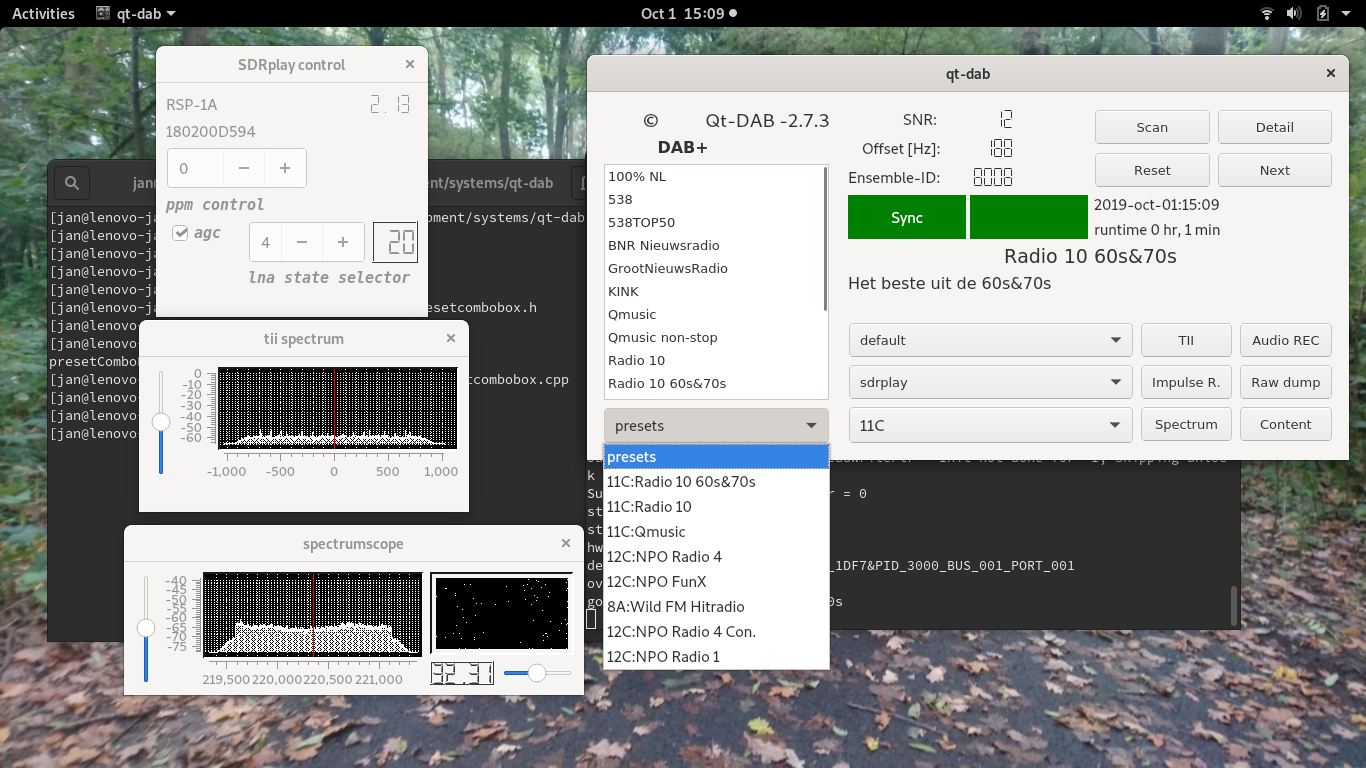
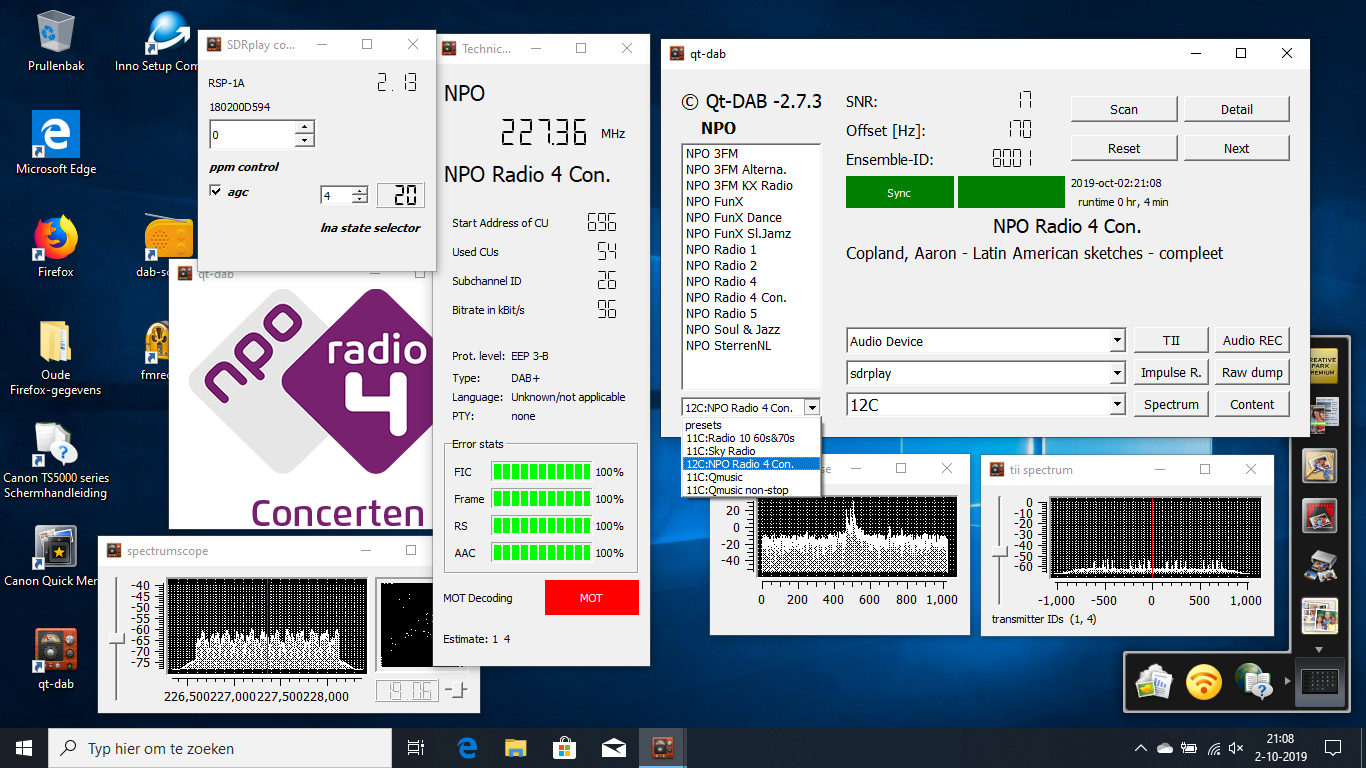
changes in README

diff --git a/README.md b/README.md
@@ -14,25 +14,29 @@ The encoding of the presets is as *channel:service*, it sometimes
 happens that different channels have (diferently encoded) versions
 of the same service.
 
+![Qt-DAB with sdrplay input](/qt-dab-presets.png?raw=true)
+
 Adding a service to the *presets* is by *clicking with the right mouse
 button on the name of the service that is currently selected in the
 servicelist*.
-
-Note that clicking with the right mouse button on any other service name
-will show some technical data of that service.
-
-
-![Qt-DAB with sdrplay input](/qt-dab-presets.png?raw=true)
 
 Of course, one is also able to *remove* an entry from the presets.
 To do this, select the entry (by putting the curson on it without
 clicking any of the mouse buttons) and press the *shift* and the *delete*
 button on the keyboard simultaneously.
 
+*Note that clicking with the right mouse button on any other service name
+than the currently selected one will show some technical data of that service as shown in the picture below.
+
+![Qt-DAB with sdrplay input](/qt-dab-servicedata.png?raw=true)
+
 The presets are stored in xml format in a file ".qt-dab-presets.xml"
 which is kept in the home directory (folder) of the user.
 On program start this file will be read (note that if some *file input*
 is selected, the preset selector will not be shown).
+
+In 2.7.2 - thanks to stuart Longland - (most) widgets became resizable
+and a first version of the "presets" was made.
 
 -----------------------------------------------------------------
 NEW in 2.7.1
